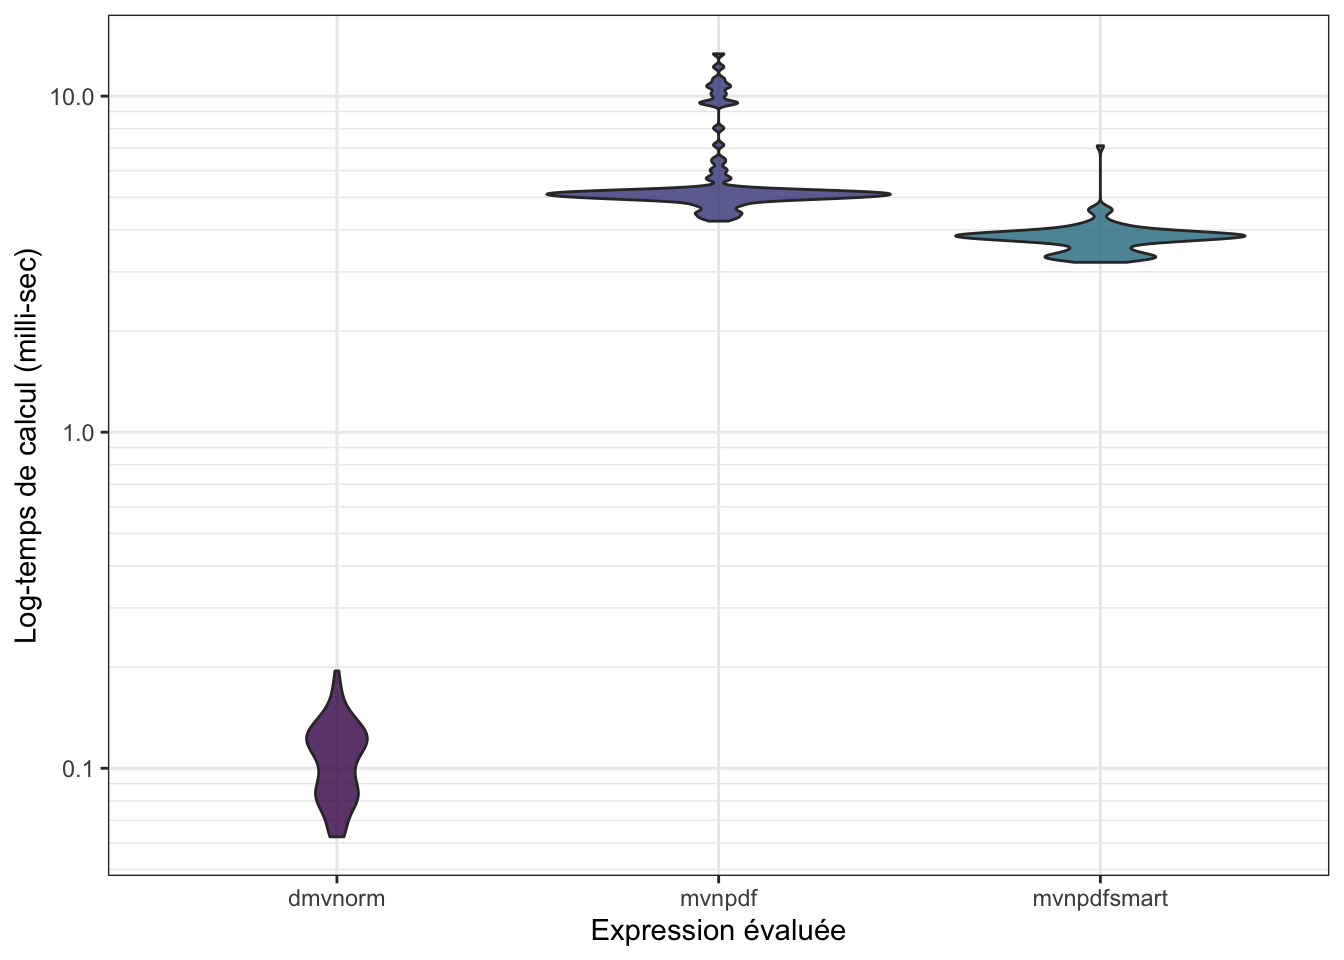
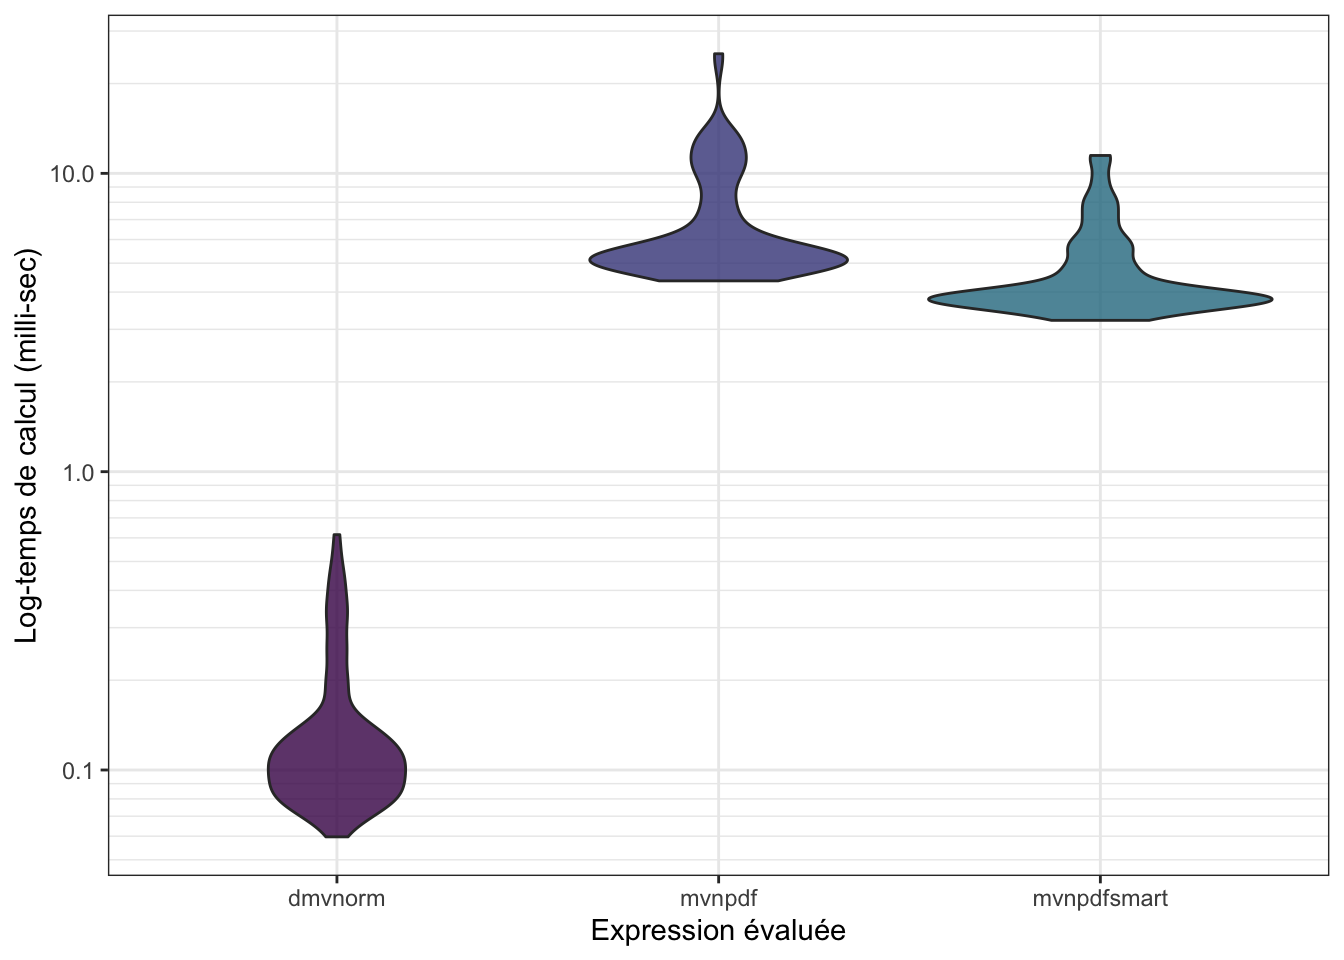
Rcpp typo fix

diff --git a/_book/rcpp-ou-comment-intégrer-facilement-du-code-cdans-un-package-r.html b/_book/rcpp-ou-comment-intégrer-facilement-du-code-cdans-un-package-r.html
@@ -287,23 +287,12 @@ l’utiliser.</p></li>
 <blockquote>
 <p><strong><em>A vous de jouer !</em></strong></p>
 <ol style="list-style-type: decimal">
-<li><p>Créez un nouveau fichier <code>C++</code> depuis RStudio (via le menu <code>File</code> &gt; <code>New File</code> &gt; <code>C++ File</code>),
-et enregistrez le dans le dossier <code>src</code>. Prenez le temps de le lire et essayez de comprendre
-chaque ligne.</p></li>
-<li><p>Compilez et chargez votre package (via le bouton “Install and Restart”) et essayez d’utiliser
-la fonction <code>timesTwo()</code> depuis la console.</p></li>
-<li><p>Installez le package RcppArmadillo, et n’oubliez pas de faire les ajouts nécessaires dans
-<code>DESCRIPTION</code> (cf. Rcpp précédement - vous pouvez expérimentez avec la fonction
-<code>RcppArmadillo::RcppArmadillo.package.skeleton()</code> qui a le désavantage de créer beaucoup de fichiers
-inutiles)</p></li>
-<li><p>À l’aide de la documentation des <a href="http://adv-r.had.co.nz/Rcpp.html#rcpp-intro">packages Rcpp</a>
-et <a href="http://gallery.rcpp.org/articles/armadillo-eigenvalues/à">RcppArmadillo</a> de celle de la
-library <a href="http://arma.sourceforge.net/docs.html">Armadillo</a>, tentez d’écrire une courte fonction
-<code>invC</code> en <code>C++</code> calculant l’inverse d’une matrice.</p></li>
-<li><p>Lorsque vous avez réussi à compiler votre fonction <code>invC</code> et qu’elle est accèssible depuis <code>R</code>
-créer une fonction <code>mvnpdf_invC()</code> à partir de l’implémentation de <code>mvnpdfsmart</code> en remplaçant
-uniquement les calculs d’inverse matriciel par un appel à <code>invC</code>.</p></li>
-<li><p>Evaluer le gain en performance de cette nouvelle implémentation <code>mvnpdf_invC</code></p></li>
+<li><p>Créez un nouveau fichier <code>C++</code> depuis RStudio (via le menu <code>File</code> &gt; <code>New File</code> &gt; <code>C++ File</code>), et enregistrez le dans le dossier <code>src</code>. Prenez le temps de le lire et essayez de comprendre chaque ligne.</p></li>
+<li><p>Compilez et chargez votre package (via le bouton “Install and Restart”) et essayez d’utiliser la fonction <code>timesTwo()</code> depuis la console.</p></li>
+<li><p>Installez le package RcppArmadillo, et n’oubliez pas de faire les ajouts nécessaires dans <code>DESCRIPTION</code> (cf. <code>usethis::use_rcpp_armadillo()</code>)</p></li>
+<li><p>À l’aide de l’[introduction à <code>Rcpp</code>]](<a href="http://adv-r.had.co.nz/Rcpp.html#rcpp-intro" class="uri">http://adv-r.had.co.nz/Rcpp.html#rcpp-intro</a>) de Hadley Wickham dans son livre <em>Advanced R</em>, ainsi que de la documentation du <a href="http://gallery.rcpp.org/articles/armadillo-eigenvalues/">package <code>RcppArmadillo</code></a> de celle de la library <code>C++</code> <a href="http://arma.sourceforge.net/docs.html">Armadillo</a>, tentez d’écrire une courte fonction <code>invC</code> en <code>C++</code> calculant l’inverse d’une matrice.</p></li>
+<li><p>Lorsque vous avez réussi à compiler votre fonction <code>invC</code> et qu’elle est accessible depuis <svg aria-hidden="true" role="img" viewBox="0 0 581 512" style="height:1em;width:1.13em;vertical-align:-0.125em;margin-left:auto;margin-right:auto;font-size:inherit;fill:currentColor;overflow:visible;position:relative;"><path d="M581 226.6C581 119.1 450.9 32 290.5 32S0 119.1 0 226.6C0 322.4 103.3 402 239.4 418.1V480h99.1v-61.5c24.3-2.7 47.6-7.4 69.4-13.9L448 480h112l-67.4-113.7c54.5-35.4 88.4-84.9 88.4-139.7zm-466.8 14.5c0-73.5 98.9-133 220.8-133s211.9 40.7 211.9 133c0 50.1-26.5 85-70.3 106.4-2.4-1.6-4.7-2.9-6.4-3.7-10.2-5.2-27.8-10.5-27.8-10.5s86.6-6.4 86.6-92.7-90.6-87.9-90.6-87.9h-199V361c-74.1-21.5-125.2-67.1-125.2-119.9zm225.1 38.3v-55.6c57.8 0 87.8-6.8 87.8 27.3 0 36.5-38.2 28.3-87.8 28.3zm-.9 72.5H365c10.8 0 18.9 11.7 24 19.2-16.1 1.9-33 2.8-50.6 2.9v-22.1z"/></svg> créer une fonction <code>mvnpdf_invC()</code> à partir de l’implémentation de <code>mvnpdfsmart</code> en remplaçant uniquement les calculs d’inverse matriciel par un appel à <code>invC</code>.</p></li>
+<li><p>Evaluer le gain en performance de cette nouvelle implémentation <code>mvnpdf_invC</code>.</p></li>
 </ol>
 </blockquote>
 <div class="sourceCode" id="cb34"><pre class="sourceCode r"><code class="sourceCode r"><span id="cb34-1"><a href="rcpp-ou-comment-intégrer-facilement-du-code-cdans-un-package-r.html#cb34-1" aria-hidden="true" tabindex="-1"></a>n <span class="ot">&lt;-</span> <span class="dv">1000</span></span>
@@ -316,17 +305,17 @@ uniquement les calculs d’inverse matriciel par un appel à <code>invC</code>.<
 <span id="cb34-8"><a href="rcpp-ou-comment-intégrer-facilement-du-code-cdans-un-package-r.html#cb34-8" aria-hidden="true" tabindex="-1"></a>mb</span></code></pre></div>
 <pre><code>## Unit: microseconds
 ##                                                            expr      min
-##              mvtnorm::dmvnorm(matrix(1.96, nrow = n, ncol = 2))   63.425
-##       mvnpdf(x = matrix(1.96, nrow = 2, ncol = n), Log = FALSE) 4241.974
-##  mvnpdfsmart(x = matrix(1.96, nrow = 2, ncol = n), Log = FALSE) 3076.671
-##  mvnpdfoptim(x = matrix(1.96, nrow = 2, ncol = n), Log = FALSE) 2461.704
-##  mvnpdf_invC(x = matrix(1.96, nrow = 2, ncol = n), Log = FALSE) 3207.500
-##        lq      mean    median        uq        max neval cld
-##    93.719  117.4969  115.6735  133.6525    237.724   100 a  
-##  5032.598 5600.2329 5169.3570 5834.6880  16537.394   100   c
-##  3768.450 4052.4862 3867.5305 4102.3610  10829.319   100  bc
-##  2754.434 3102.2656 2898.1510 3087.3980  12136.253   100  b 
-##  3725.554 5266.1177 3827.0140 4041.3410 127093.235   100  bc</code></pre>
+##              mvtnorm::dmvnorm(matrix(1.96, nrow = n, ncol = 2))   68.982
+##       mvnpdf(x = matrix(1.96, nrow = 2, ncol = n), Log = FALSE) 4244.388
+##  mvnpdfsmart(x = matrix(1.96, nrow = 2, ncol = n), Log = FALSE) 3272.665
+##  mvnpdfoptim(x = matrix(1.96, nrow = 2, ncol = n), Log = FALSE) 2378.688
+##  mvnpdf_invC(x = matrix(1.96, nrow = 2, ncol = n), Log = FALSE) 3125.128
+##         lq       mean   median         uq        max neval cld
+##   113.1025   168.4242  138.883   193.4195    502.197   100 a  
+##  5345.6865 11394.5824 6332.586 11303.8930 127349.473   100   c
+##  3791.6275  6419.8959 4005.534  6245.4935  78438.157   100  b 
+##  2851.7470  4733.1832 3157.202  5593.7925  24970.007   100  b 
+##  3751.4100  5269.8079 4004.860  4874.8900  20945.783   100  b</code></pre>
 <pre><code>## Warning: It is deprecated to specify `guide = FALSE` to remove a guide. Please
 ## use `guide = &quot;none&quot;` instead.</code></pre>
 <p><img src="FormationRavancee_dev_perf_files/figure-html/unnamed-chunk-31-1.png" width="672" /></p>
@@ -346,7 +335,7 @@ réalité déjà sur des routines <code>C</code> ou <code>Fortran</code> bien op
 <ol style="list-style-type: decimal">
 <li><p>À partir de <code>mvnpdfsmart</code>, proposez une implémentation completement en <code>C++</code> du calcul
 de densité de la loi Normale multivariée <code>mvnpdfC()</code>.</p></li>
-<li><p>Evaluer le gain en performance de cette nouvelle implémentation <code>mvnpdf_invC</code></p></li>
+<li><p>Evaluer le gain en performance de cette nouvelle implémentation <code>mvnpdfC</code></p></li>
 </ol>
 </blockquote>
 <p>Vous pouvez télécharger notre proposition de <code>mvnpdfC.cpp</code> <a href="https://r-dev-perf.borishejblum.science/FormationRavancee_dev_perf_files/mvnpdfC.cpp">ici</a>.</p>
@@ -367,13 +356,13 @@ de densité de la loi Normale multivariée <code>mvnpdfC()</code>.</p></li>
 ##                                        mvnpdfoptim(x = matrix(1.96, nrow = 2, ncol = n), Log = FALSE)
 ##                                        mvnpdf_invC(x = matrix(1.96, nrow = 2, ncol = n), Log = FALSE)
 ##  mvnpdfC(x = matrix(1.96, nrow = 2, ncol = n), mean = rep(0, 2),      varcovM = diag(2), Log = FALSE)
-##       min        lq       mean    median        uq       max neval  cld
-##    68.497   86.5625  109.92815  108.9470  122.1255   187.119   100 a   
-##  4252.244 5021.5865 5288.22761 5199.4375 5359.4960  7169.753   100    d
-##  3171.839 3583.8740 4037.58146 3846.6045 3960.2030 11137.318   100   c 
-##  2341.401 2823.2650 3225.41906 2969.2655 3099.5480 16131.740   100  b  
-##  3190.270 3612.2665 3919.67499 3800.7605 3934.6850 14647.873   100   c 
-##    46.058   58.2075   79.39621   65.7545   71.9340  1404.636   100 a</code></pre>
+##       min        lq      mean    median        uq       max neval  cld
+##    75.800  123.7515  172.2358  138.6330  182.4695   701.896   100 a   
+##  4463.243 5415.7285 7350.6738 6315.5200 7776.4160 29603.732   100    d
+##  3359.192 3993.0300 6059.2614 4562.5950 6639.9965 69132.165   100   cd
+##  2511.499 2981.8415 4402.9428 3392.0805 4849.6575 12101.807   100  b  
+##  3321.725 3888.6350 5237.7403 4239.3300 5657.8765 13384.118   100  bc 
+##    54.743   70.7075  106.8560   88.1565  117.9890   962.482   100 a</code></pre>
 <pre><code>## Warning: It is deprecated to specify `guide = FALSE` to remove a guide. Please
 ## use `guide = &quot;none&quot;` instead.</code></pre>
 <p><img src="FormationRavancee_dev_perf_files/figure-html/unnamed-chunk-34-1.png" width="672" /></p>

diff --git a/_book/mesurer-et-comparer-des-temps-dexécution.html b/_book/mesurer-et-comparer-des-temps-dexécution.html
@@ -249,7 +249,7 @@ afin de pouvoir comparer les temps d’exécution entre différente implémentat
 fonction <code>system.time()</code> comme ceci :</p>
 <div class="sourceCode" id="cb9"><pre class="sourceCode r"><code class="sourceCode r"><span id="cb9-1"><a href="mesurer-et-comparer-des-temps-dexécution.html#cb9-1" aria-hidden="true" tabindex="-1"></a><span class="fu">system.time</span>(<span class="fu">mvnpdf</span>(<span class="at">x=</span><span class="fu">matrix</span>(<span class="fu">rep</span>(<span class="fl">1.96</span>, <span class="dv">2</span>), <span class="at">nrow=</span><span class="dv">2</span>, <span class="at">ncol=</span><span class="dv">1</span>), <span class="at">Log=</span><span class="cn">FALSE</span>))</span></code></pre></div>
 <pre><code>## utilisateur     système      écoulé 
-##       0.001       0.001       0.003</code></pre>
+##       0.002       0.000       0.003</code></pre>
 <p>Le problème qui apparaît sur cet exemple est que l’exécution est tellement
 rapide que <code>system.time()</code> affiche <code>0</code> (ou une valeur très proche).
 De plus, on voit qu’il y a une certaine variabilité quand on relance plusieurs
@@ -258,7 +258,7 @@ fois la commande.</p>
 on ne peut pas utiliser <code>system.time()</code> :</p>
 <div class="sourceCode" id="cb11"><pre class="sourceCode r"><code class="sourceCode r"><span id="cb11-1"><a href="mesurer-et-comparer-des-temps-dexécution.html#cb11-1" aria-hidden="true" tabindex="-1"></a><span class="fu">system.time</span>(mvtnorm<span class="sc">::</span><span class="fu">dmvnorm</span>(<span class="fu">rep</span>(<span class="fl">1.96</span>, <span class="dv">2</span>)))</span></code></pre></div>
 <pre><code>## utilisateur     système      écoulé 
-##       0.004       0.002       0.010</code></pre>
+##       0.004       0.002       0.008</code></pre>
 <p>On pourrait se dire qu’il faut augmenter la complexité de notre calcul, mais
 il y a mieux : utiliser le package <code>microbenchmark</code> !</p>
 </div>
@@ -274,12 +274,12 @@ commandes et donc va stabiliser le résultat.</p>
 <span id="cb13-4"><a href="mesurer-et-comparer-des-temps-dexécution.html#cb13-4" aria-hidden="true" tabindex="-1"></a>                     <span class="at">times=</span>1000L)</span>
 <span id="cb13-5"><a href="mesurer-et-comparer-des-temps-dexécution.html#cb13-5" aria-hidden="true" tabindex="-1"></a>mb</span></code></pre></div>
 <pre><code>## Unit: microseconds
-##                                           expr    min      lq     mean median
-##                 mvtnorm::dmvnorm(rep(1.96, 2)) 37.529 41.8935 49.21259 48.381
-##  mvnpdf(x = matrix(rep(1.96, 2)), Log = FALSE) 34.670 39.4360 47.86043 45.431
-##       uq     max neval cld
-##  54.8115  179.16  1000   a
-##  50.8410 1859.84  1000   a</code></pre>
+##                                           expr    min      lq     mean  median
+##                 mvtnorm::dmvnorm(rep(1.96, 2)) 40.521 52.1545 78.16958 68.4525
+##  mvnpdf(x = matrix(rep(1.96, 2)), Log = FALSE) 37.144 48.6565 76.18894 61.7755
+##       uq      max neval cld
+##  90.6475  326.312  1000   a
+##  82.1440 5082.800  1000   a</code></pre>
 <pre><code>## Warning: It is deprecated to specify `guide = FALSE` to remove a guide. Please
 ## use `guide = &quot;none&quot;` instead.</code></pre>
 <p><img src="FormationRavancee_dev_perf_files/figure-html/unnamed-chunk-13-1.png" width="672" /></p>
@@ -293,11 +293,11 @@ cas :</p>
 <span id="cb16-5"><a href="mesurer-et-comparer-des-temps-dexécution.html#cb16-5" aria-hidden="true" tabindex="-1"></a>mb</span></code></pre></div>
 <pre><code>## Unit: microseconds
 ##                                                       expr     min       lq
-##         mvtnorm::dmvnorm(matrix(1.96, nrow = n, ncol = 2))  46.745  53.4165
-##  mvnpdf(x = matrix(1.96, nrow = 2, ncol = n), Log = FALSE) 450.776 480.6770
-##       mean   median       uq     max neval cld
-##   58.78664  57.7615  61.9550 158.111   100  a 
-##  514.03432 513.0670 548.4595 605.525   100   b</code></pre>
+##         mvtnorm::dmvnorm(matrix(1.96, nrow = n, ncol = 2))  46.295  55.7175
+##  mvnpdf(x = matrix(1.96, nrow = 2, ncol = n), Log = FALSE) 472.513 486.1850
+##       mean   median       uq      max neval cld
+##   95.77254  66.1755 108.6990  423.400   100  a 
+##  666.31521 508.1955 789.8635 1459.967   100   b</code></pre>
 <pre><code>## Warning: It is deprecated to specify `guide = FALSE` to remove a guide. Please
 ## use `guide = &quot;none&quot;` instead.</code></pre>
 <p><img src="FormationRavancee_dev_perf_files/figure-html/unnamed-chunk-15-1.png" width="672" /></p>

diff --git a/_book/profiler-son-code.html b/_book/profiler-son-code.html
@@ -271,11 +271,11 @@ fine ce qui prend du temps dans notre fonction.</p>
 <span id="cb21-5"><a href="profiler-son-code.html#cb21-5" aria-hidden="true" tabindex="-1"></a>mb</span></code></pre></div>
 <pre><code>## Unit: milliseconds
 ##                                                            expr      min
-##       mvnpdf(x = matrix(1.96, nrow = 2, ncol = n), Log = FALSE) 4.076874
-##  mvnpdfsmart(x = matrix(1.96, nrow = 2, ncol = n), Log = FALSE) 3.073185
+##       mvnpdf(x = matrix(1.96, nrow = 2, ncol = n), Log = FALSE) 4.498046
+##  mvnpdfsmart(x = matrix(1.96, nrow = 2, ncol = n), Log = FALSE) 3.258086
 ##        lq     mean   median       uq      max neval cld
-##  4.893137 5.998156 5.141924 6.389890 21.46039   100   b
-##  3.475643 3.780200 3.764268 3.839279 13.09866   100  a</code></pre>
+##  5.204236 6.539306 5.832095 7.013141 15.09155   100   b
+##  3.750431 4.507692 3.868774 4.609977 27.42644   100  a</code></pre>
 <pre><code>## Warning: It is deprecated to specify `guide = FALSE` to remove a guide. Please
 ## use `guide = &quot;none&quot;` instead.</code></pre>
 <p><img src="FormationRavancee_dev_perf_files/figure-html/unnamed-chunk-20-1.png" width="672" /></p>
@@ -288,13 +288,13 @@ fine ce qui prend du temps dans notre fonction.</p>
 <span id="cb24-6"><a href="profiler-son-code.html#cb24-6" aria-hidden="true" tabindex="-1"></a>mb</span></code></pre></div>
 <pre><code>## Unit: microseconds
 ##                                                            expr      min
-##              mvtnorm::dmvnorm(matrix(1.96, nrow = n, ncol = 2))   62.498
-##       mvnpdf(x = matrix(1.96, nrow = 2, ncol = n), Log = FALSE) 4246.703
-##  mvnpdfsmart(x = matrix(1.96, nrow = 2, ncol = n), Log = FALSE) 3202.743
-##        lq      mean    median       uq       max neval cld
-##    84.077  108.1276  110.3375  126.303   194.793   100 a  
-##  4974.164 5797.1226 5113.8840 5258.858 13368.359   100   c
-##  3548.608 3793.4547 3798.8340 3898.847  7118.741   100  b</code></pre>
+##              mvtnorm::dmvnorm(matrix(1.96, nrow = n, ncol = 2))   59.679
+##       mvnpdf(x = matrix(1.96, nrow = 2, ncol = n), Log = FALSE) 4361.222
+##  mvnpdfsmart(x = matrix(1.96, nrow = 2, ncol = n), Log = FALSE) 3215.857
+##        lq      mean   median        uq       max neval cld
+##    85.326  143.2494  108.202  137.1685   615.009   100 a  
+##  5085.134 7046.4947 5239.408 7954.5930 25172.146   100   c
+##  3761.162 4731.6213 3847.203 5061.2920 11481.663   100  b</code></pre>
 <pre><code>## Warning: It is deprecated to specify `guide = FALSE` to remove a guide. Please
 ## use `guide = &quot;none&quot;` instead.</code></pre>
 <p><img src="FormationRavancee_dev_perf_files/figure-html/unnamed-chunk-22-1.png" width="672" /></p>
@@ -319,15 +319,15 @@ fonction :</p>
 <span id="cb28-7"><a href="profiler-son-code.html#cb28-7" aria-hidden="true" tabindex="-1"></a>mb</span></code></pre></div>
 <pre><code>## Unit: microseconds
 ##                                                            expr      min
-##              mvtnorm::dmvnorm(matrix(1.96, nrow = n, ncol = 2))   63.676
-##       mvnpdf(x = matrix(1.96, nrow = 2, ncol = n), Log = FALSE) 4367.042
-##  mvnpdfsmart(x = matrix(1.96, nrow = 2, ncol = n), Log = FALSE) 3191.183
-##  mvnpdfoptim(x = matrix(1.96, nrow = 2, ncol = n), Log = FALSE) 2403.509
-##        lq     mean    median       uq       max neval  cld
-##    81.727  152.935   95.5255  114.958  5438.278   100 a   
-##  4841.532 5809.991 5088.3075 5498.373 16351.868   100    d
-##  3575.333 3779.259 3748.1150 3832.771 11097.826   100   c 
-##  2672.487 2943.300 2843.1590 2965.386 10037.843   100  b</code></pre>
+##              mvtnorm::dmvnorm(matrix(1.96, nrow = n, ncol = 2))   62.212
+##       mvnpdf(x = matrix(1.96, nrow = 2, ncol = n), Log = FALSE) 4384.332
+##  mvnpdfsmart(x = matrix(1.96, nrow = 2, ncol = n), Log = FALSE) 3245.780
+##  mvnpdfoptim(x = matrix(1.96, nrow = 2, ncol = n), Log = FALSE) 2342.407
+##         lq      mean    median        uq       max neval  cld
+##    78.8825  122.8863  103.4135  123.3455   470.897   100 a   
+##  5006.0165 7056.8324 5330.3680 8380.9410 30362.853   100    d
+##  3705.6805 4389.1102 3847.2920 4109.0675 13160.207   100   c 
+##  2716.3645 3253.8888 2855.9950 3051.8415  7855.181   100  b</code></pre>
 <pre><code>## Warning: It is deprecated to specify `guide = FALSE` to remove a guide. Please
 ## use `guide = &quot;none&quot;` instead.</code></pre>
 <p><img src="FormationRavancee_dev_perf_files/figure-html/unnamed-chunk-25-1.png" width="672" /></p>

diff --git a/_book/parallélisation-du-code-r.html b/_book/parallélisation-du-code-r.html
@@ -356,7 +356,7 @@ médiane pour chacune de ces variables.</p>
 <span id="cb44-3"><a href="parallélisation-du-code-r.html#cb44-3" aria-hidden="true" tabindex="-1"></a>}</span>
 <span id="cb44-4"><a href="parallélisation-du-code-r.html#cb44-4" aria-hidden="true" tabindex="-1"></a><span class="fu">system.time</span>(<span class="fu">colmedian_apply</span>(x))</span></code></pre></div>
 <pre><code>## utilisateur     système      écoulé 
-##       2.701       0.016       2.722</code></pre>
+##       3.181       0.027       3.231</code></pre>
 <p>En réalité, une boucle <code>for</code> n’est pas plus lente à condition d’être bien
 programmée :</p>
 <div class="sourceCode" id="cb46"><pre class="sourceCode r"><code class="sourceCode r"><span id="cb46-1"><a href="parallélisation-du-code-r.html#cb46-1" aria-hidden="true" tabindex="-1"></a>colmedian_for <span class="ot">&lt;-</span> <span class="cf">function</span>(x){</span>
@@ -368,7 +368,7 @@ programmée :</p>
 <span id="cb46-7"><a href="parallélisation-du-code-r.html#cb46-7" aria-hidden="true" tabindex="-1"></a>}</span>
 <span id="cb46-8"><a href="parallélisation-du-code-r.html#cb46-8" aria-hidden="true" tabindex="-1"></a><span class="fu">system.time</span>(<span class="fu">colmedian_for</span>(x))</span></code></pre></div>
 <pre><code>## utilisateur     système      écoulé 
-##       2.524       0.013       2.539</code></pre>
+##       3.777       0.052       3.880</code></pre>
 <blockquote>
 <p><strong><em>À vous de jouer !</em></strong><br />
 Essayez d’améliorer encore ce temps de calcul en parallélisant :</p>
